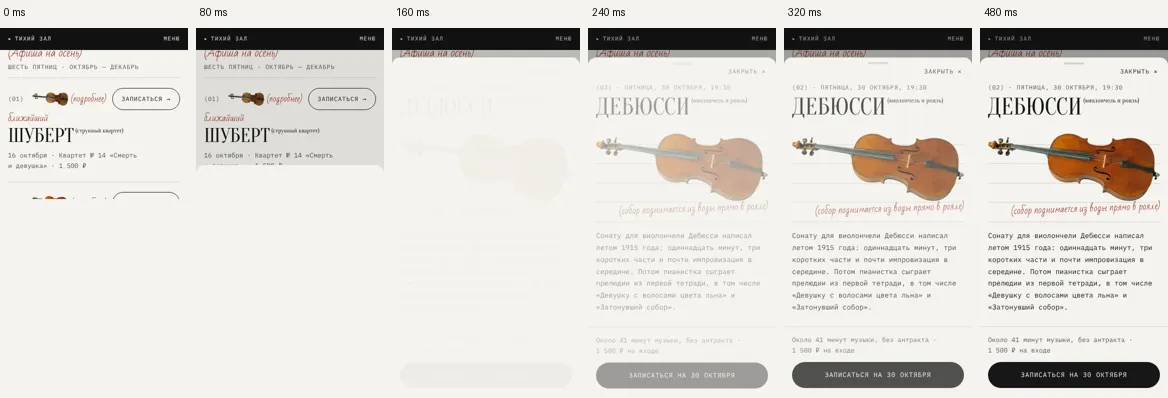
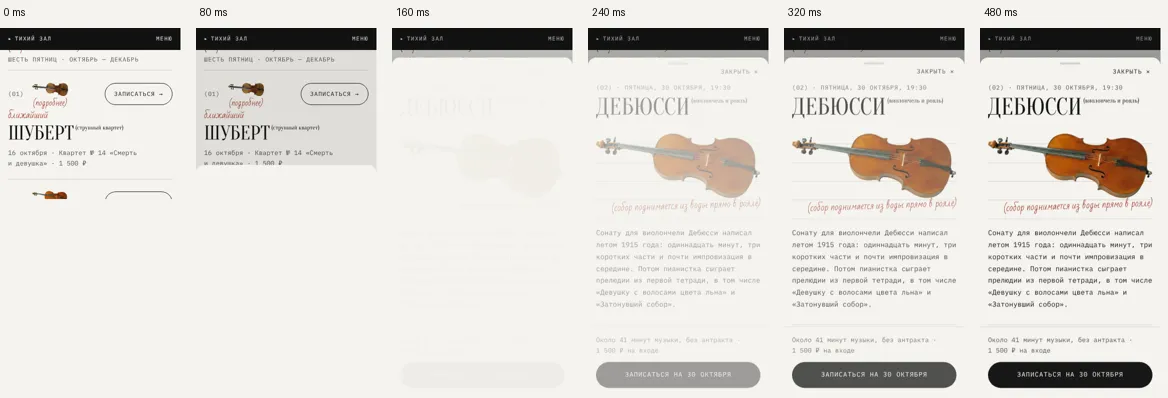
Буквы и окно двигаются без потери кадров, полоса «вечера» симметрична
- Разъезд букв: каждая буква сдвигается своим transform (видеокарта, частота
  экрана) вместо letter-spacing, который пересчитывал строку на каждом кадре.
- Окно с программкой: картинки раскодируются заранее, выезд и затемнение
  начинаются после тяжёлого кадра открытия, лист на своём слое; полоса
  прокрутки больше не пропадает при открытии (scrollbar-gutter), поэтому
  страница не пересчитывается и не дёргается.
- Если в системе выключены эффекты анимации, лист не выезжает, а мягко
  проявляется; мелкие эффекты наведения остаются.
- Серый слой в «Как проходит вечер» и пункты меню двигаются transform.
- Нижний конец указателя выходит за самое низкое фото на столько же,
  на сколько верхний за самое высокое.

Claude-Session: https://claude.ai/code/session_016hcU1gmMYWkRjzHDfmy5by

diff --git a/assets/css/style.css b/assets/css/style.css
@@ -49,6 +49,9 @@
 }
 
 /* Токены: бумага, тушь и красный карандаш для пометок */
+/* Сдвиг букв считается в пикселях от размера названия и в таком виде достаётся и подписи в скобках */
+@property --spread { syntax: "<length>"; inherits: true; initial-value: 0px; }
+
 :root {
   --paper: #f4f3ee;
   --ink: #121212;
@@ -85,7 +88,8 @@
 /* Сброс */
 *, *::before, *::after { box-sizing: border-box; }
 * { margin: 0; }
-html { -webkit-text-size-adjust: 100%; scroll-behavior: smooth; scroll-padding-top: calc(var(--bar) + 1rem); }
+html { -webkit-text-size-adjust: 100%; scroll-behavior: smooth; scroll-padding-top: calc(var(--bar) + 1rem); scrollbar-gutter: stable; }
+/* Место под полосу прокрутки держится всегда: когда окно запирает прокрутку, страница не пересчитывается и не дёргается вбок */
 @media (prefers-reduced-motion: reduce) { html { scroll-behavior: auto; } }
 /* Большие мониторы: вся раскладка плавно крупнеет, а не растягивается пустотой (16 px на 1440, 20 px к 2560) */
 @media (min-width: 90rem) { html { font-size: clamp(100%, 0.4vw + 0.64rem, 125%); } }
@@ -216,17 +220,18 @@ ul, ol { list-style: none; padding: 0; }
   display: flex; align-items: baseline; gap: 0.75rem; min-height: var(--tap); padding-block: 0.35rem;
   font-family: var(--serif); font-size: clamp(2rem, 1.6rem + 1.5vw, 2.75rem); line-height: 1; text-transform: uppercase;
   text-decoration: none; border-bottom: 1px solid rgba(244, 243, 238, 0.18);
-  transition: color 160ms ease, padding-left 240ms var(--ease-out);
+  transition: color 160ms ease;
 }
+.menu__list a > * { transition: transform 240ms var(--ease-soft); }
 .menu__num { font-family: var(--mono); font-size: var(--text-s); letter-spacing: 0.1em; opacity: 0.6; }
-@media (hover: hover) { .menu__list a:hover { padding-left: 0.5rem; color: #e9b7ae; } }
+@media (hover: hover) { .menu__list a:hover { color: #e9b7ae; } .menu__list a:hover > * { transform: translateX(0.5rem); } }
 .menu__list a:active { color: #e9b7ae; }
 .notes-toggle--menu { margin-top: 1.25rem; font-size: 0.6875rem; text-transform: uppercase; letter-spacing: 0.14em; }
 @media (min-width: 64rem) {
   .menu { top: var(--rail-inset); bottom: var(--rail-inset); max-height: none; right: calc(var(--rail-inset) + var(--rail-w)); padding: 3rem 2.5rem; box-shadow: none; }
   .notes-toggle--menu { display: none; }
 }
-@media (prefers-reduced-motion: reduce) { .menu { transition: none; } }
+@media (prefers-reduced-motion: reduce) { .menu { transform: none; opacity: 0; transition: opacity 300ms ease; } .menu.is-open { opacity: 1; } }
 
 /* ---------- Раскладка ---------- */
 
@@ -375,7 +380,8 @@ ul, ol { list-style: none; padding: 0; }
   display: inline-block;
   font-family: var(--serif); text-transform: uppercase;
   font-size: clamp(2.5rem, 1.5rem + 3.6vw, 5.75rem); line-height: 0.9; letter-spacing: -0.005em;
-  transition: letter-spacing 700ms var(--ease-soft), color 200ms ease;
+  --spread: 0.045em; /* на сколько отъезжает каждая следующая буква */
+  transition: color 200ms ease;
 }
 /* Название — кнопка программки; её невидимая подложка накрывает всю строку, кроме «Записаться» */
 .gig__open {
@@ -387,9 +393,16 @@ ul, ol { list-style: none; padding: 0; }
 .gig__open:focus-visible { outline: none; }
 .gig__open:focus-visible::after { outline: 2px solid var(--pencil); outline-offset: -2px; }
 .gig__open:active { color: var(--pencil); }
-/* Буквы фамилии разъезжаются при наведении: строка как будто делает вдох перед программкой */
+/* Буквы фамилии разъезжаются при наведении: строка как будто делает вдох перед программкой.
+   Каждая буква сдвигается своим transform, а не через letter-spacing: страница не пересчитывается,
+   браузер двигает буквы на видеокарте с частотой экрана (60, 120, 144 кадров в секунду) */
+.gig__name { white-space: nowrap; }
+.gig__ch, .gig__title sup { transition: transform 700ms var(--ease-soft); }
+.gig__ch { display: inline-block; }
+.gig__ch { transform: translateX(calc(var(--on, 0) * var(--i) * var(--spread))); }
+.gig__title sup { transform: translateX(calc(var(--on, 0) * var(--n, 0) * var(--spread))); }
 @media (hover: hover) {
-  .gig__open:hover, .gig:hover .gig__title { letter-spacing: 0.04em; }
+  .gig__open:hover, .gig:hover .gig__open { --on: 1; }
 }
 .gig__title sup {
   display: inline-block; /* на узком экране подпись переносится под фамилию, а не вылезает */
@@ -407,7 +420,7 @@ ul, ol { list-style: none; padding: 0; }
 .gig__hint::after { content: ")"; }
 html:not(.js) .gig__hint { display: none; }
 /* На самых узких телефонах пометка встаёт под инструмент, чтобы не залезать на «Записаться» */
-@media (max-width: 23.4rem) {
+@media (max-width: 24rem) {
   .gig__visual { flex-direction: column; align-items: center; gap: 0; }
   .gig__hint { font-size: 1rem; line-height: 1.1; }
 }
@@ -457,18 +470,13 @@ html:not(.js) .gig__hint { display: none; }
   .gig:hover .gig__hint, .gig:focus-within .gig__hint { opacity: 1; transform: none; }
 }
 /* Лесенка названий на широком экране доходит почти до середины строки, как ноты по стану */
-/* Подпись в скобках не должна прыгать, когда буквы разъезжаются: пока строка узкая, она всегда под фамилией, на широком экране всегда рядом */
-@media (min-width: 48rem) and (max-width: 79.99rem) { .gig__title sup { display: block; margin-left: 0; top: 0; margin-top: 0.35rem; } }
-@media (min-width: 80rem) { .gig { --step: 5%; } .gig__title { white-space: nowrap; } }
+@media (min-width: 80rem) { .gig { --step: 5%; } }
 @media (min-width: 100rem) { .gig { --step: 7%; } }
 /* Инструмент только чуть подаётся навстречу названию: главное движение теперь у букв */
 @media (hover: hover) {
   .gig:hover .gig__img, .gig:focus-within .gig__img { transform: translateX(-0.5rem); }
 }
-@media (prefers-reduced-motion: reduce) {
-  .gig__img, .gig__title, .gig__hint { transition: none; }
-  .gig:hover .gig__img { transform: none; }
-}
+
 
 /* ---------- Программка концерта ---------- */
 
@@ -477,9 +485,9 @@ html:not(.js) .gig__hint { display: none; }
   position: fixed; inset: 0; width: 100%; height: 100%; max-width: none; max-height: none;
   margin: 0; padding: 0; border: 0; background: transparent; color: var(--ink); overflow: hidden;
 }
-.programme::backdrop { background: rgba(18, 18, 18, 0.4); }
-.programme[open]::backdrop { animation: fade 450ms ease both; }
-.programme.is-closing::backdrop { opacity: 0; transition: opacity 320ms ease; }
+/* Затемнение проявляется вместе с выездом листа, а не в тяжёлый кадр открытия */
+.programme::backdrop { background: rgba(18, 18, 18, 0.4); opacity: 0; transition: opacity 320ms ease; }
+.programme.is-open::backdrop { opacity: 1; transition-duration: 450ms; }
 html.has-dialog { overflow: hidden; }
 .programme__sheet {
   position: absolute; left: 0; right: 0; bottom: 0; max-height: 92svh;
@@ -487,11 +495,12 @@ html.has-dialog { overflow: hidden; }
   background: var(--paper); border-radius: 1rem 1rem 0 0;
   padding-bottom: env(safe-area-inset-bottom);
   transform: translateY(100%); transition: transform 520ms var(--ease-sheet);
+  will-change: transform; contain: layout paint; /* лист живёт на своём слое: выезд не перерисовывает страницу */
 }
 .programme.is-open .programme__sheet { transform: none; }
 .programme.is-closing .programme__sheet { transform: translateY(100%); transition-duration: 320ms; }
 /* Лист не приезжает пустым: текст проявляется вслед за ним, а при закрытии гаснет первым */
-.programme__body, .programme__bar { opacity: 0; transition: opacity 260ms ease; }
+.programme__body, .programme__bar { opacity: 0; transition: opacity 260ms ease; will-change: opacity; }
 .programme.is-open .programme__body, .programme.is-open .programme__bar { opacity: 1; transition: opacity 420ms ease 140ms; }
 .programme__bar {
   position: relative; display: flex; justify-content: flex-end; align-items: center;
@@ -554,8 +563,10 @@ html.has-dialog { overflow: hidden; }
   .programme__img { max-height: 14rem; }
 }
 @media (prefers-reduced-motion: reduce) {
-  .programme__sheet, .programme.is-closing .programme__sheet { transition: none; }
-  .programme__body, .programme__bar { opacity: 1; transition: none; }
+  /* Если в системе просят меньше движения, лист не выезжает, а мягко проявляется на месте */
+  .programme__sheet, .programme.is-closing .programme__sheet { transform: none; opacity: 0; transition: opacity 360ms ease; }
+  .programme.is-open .programme__sheet { opacity: 1; }
+  .programme.is-closing .programme__sheet { opacity: 0; transition-duration: 220ms; }
 }
 
 /* ---------- Подробности ---------- */
@@ -596,19 +607,20 @@ html.has-dialog { overflow: hidden; }
 .moment img { width: 100%; aspect-ratio: 4 / 5; object-fit: cover; }
 .moment p { transition: color 600ms var(--ease-out); }
 /* Серый слой лежит справа от границы --reveal: слева фото уже цветное, справа ещё нет */
-.moment__photo { position: relative; }
+.moment__photo { position: relative; overflow: hidden; }
+/* Слой сдвигается transform, а не left: граница цвета едет плавно и не заставляет пересчитывать страницу */
 .moment__shade {
-  position: absolute; top: 0; bottom: 0; right: 0; left: var(--reveal, 0px);
+  position: absolute; inset: 0; transform: translateX(var(--reveal, 0px)); will-change: transform;
   -webkit-backdrop-filter: grayscale(1) contrast(0.9); backdrop-filter: grayscale(1) contrast(0.9);
   pointer-events: none;
 }
 html:not(.js) .moment__shade { display: none; }
 /* На телефоне указателя нет: фото окрашивается слева направо, когда появляется на экране */
 @media (max-width: 56.24rem) {
-  .moment__shade { transition: left 1400ms var(--ease-in-out); }
-  .moment.is-lit .moment__shade { left: 100%; }
+  .moment__shade { transition: transform 1400ms var(--ease-in-out); }
+  .moment.is-lit .moment__shade { transform: translateX(100%); }
 }
-@media (prefers-reduced-motion: reduce) { .moment__shade { transition: none; } }
+@media (prefers-reduced-motion: reduce) { .moment__shade { transition-duration: 600ms; transition-timing-function: ease; } }
 .moment b { display: block; font-family: var(--serif); font-weight: 400; font-size: 1.75rem; line-height: 1; margin-bottom: 0.35rem; }
 .js .moment:not(.is-lit) p { color: var(--muted); } /* не прозрачность: фон подписи должен закрывать указатель */
 .staff--evening, .evening__head { display: none; }

diff --git a/assets/js/main.js b/assets/js/main.js
@@ -69,6 +69,29 @@ if (next) {
   playheadLabel.textContent = "Осенний сезон закончился";
 }
 
+// Фамилия в афише раскладывается на буквы, чтобы при наведении каждая отъезжала своим transform.
+// Экранный диктор читает фамилию целиком из скрытой копии, а буквы от него спрятаны
+document.querySelectorAll(".gig__open").forEach((button) => {
+  const text = button.firstChild;
+  if (!text || text.nodeType !== Node.TEXT_NODE) return;
+  const name = text.textContent.trim();
+  const letters = document.createElement("span");
+  letters.className = "gig__name";
+  letters.setAttribute("aria-hidden", "true");
+  [...name].forEach((ch, i) => {
+    const span = document.createElement("span");
+    span.className = "gig__ch";
+    span.style.setProperty("--i", i);
+    span.textContent = ch;
+    letters.append(span);
+  });
+  const spoken = document.createElement("span");
+  spoken.className = "visually-hidden";
+  spoken.textContent = name;
+  text.replaceWith(spoken, letters);
+  button.querySelector("sup")?.style.setProperty("--n", name.length);
+});
+
 // «Записаться» в строке афиши и в программке сразу выбирает этот концерт в форме
 const concertSelect = document.getElementById("f-concert");
 const chooseConcert = (value) => {
@@ -87,16 +110,44 @@ if (programme && typeof programme.showModal === "function") {
   const reduceMotion = matchMedia("(prefers-reduced-motion: reduce)");
   let closing = false;
 
-  const open = (id) => {
+  // Картинки программок заранее скачиваем и раскодируем, пока страница простаивает:
+  // иначе раскодирование большой картинки съедает первые кадры выезда
+  const decoded = new Map();
+  const warm = () => {
+    document.querySelectorAll("template[id^='programme-']").forEach((template) => {
+      template.content.querySelectorAll("img").forEach((img) => {
+        if (decoded.has(img.src)) return;
+        const pic = new Image();
+        pic.src = img.src;
+        decoded.set(img.src, pic.decode().catch(() => {}));
+      });
+    });
+  };
+  if ("requestIdleCallback" in window) requestIdleCallback(warm, { timeout: 3000 });
+  else setTimeout(warm, 1500);
+
+  const nextFrame = () => new Promise((resolve) => requestAnimationFrame(resolve));
+  let opening = 0;
+
+  const open = async (id) => {
     const template = document.getElementById(`programme-${id}`);
-    if (!template) return;
+    if (!template || programme.open) return;
+    const ticket = ++opening;
+    warm();
     body.replaceChildren(template.content.cloneNode(true));
     body.scrollTop = 0;
     programme.classList.remove("is-closing");
+    // Ждём картинку, но не дольше 120 мс: окно должно откликнуться сразу
+    const pictures = [...body.querySelectorAll("img")].map((img) => decoded.get(img.src) || img.decode().catch(() => {}));
+    await Promise.race([Promise.all(pictures), new Promise((resolve) => setTimeout(resolve, 120))]);
+    if (ticket !== opening) return;
     programme.showModal();
     document.documentElement.classList.add("has-dialog");
-    // Лист выезжает со следующего кадра, чтобы сработал переход
-    requestAnimationFrame(() => requestAnimationFrame(() => programme.classList.add("is-open")));
+    // Самый тяжёлый кадр (окно встаёт поверх страницы) проходит без движения.
+    // Выезд начинается через два кадра, когда браузер уже свободен, поэтому ни один кадр анимации не теряется
+    await nextFrame();
+    await nextFrame();
+    if (ticket === opening && programme.open) programme.classList.add("is-open");
   };
 
   // Закрытие тоже анимированное, но короче открытия; потом окно действительно закрывается
@@ -112,8 +163,7 @@ if (programme && typeof programme.showModal === "function") {
       document.documentElement.classList.remove("has-dialog");
       if (after) after();
     };
-    if (reduceMotion.matches) finish();
-    else setTimeout(finish, 320);
+    setTimeout(finish, reduceMotion.matches ? 220 : 320);
   };
 
   document.querySelectorAll(".gig__open").forEach((button) => {
@@ -168,24 +218,43 @@ if (evening) {
   };
   const onScroll = () => { if (!frame) frame = requestAnimationFrame(update); };
 
+  // Нижний конец указателя выходит за самое низкое фото на столько же, на сколько верхний —
+  // за самое высокое: полоса выглядит симметричной на любом экране
+  const placeHead = () => {
+    head.style.removeProperty("bottom");
+    if (!wide.matches) return;
+    const box = stage.getBoundingClientRect();
+    const line = head.getBoundingClientRect();
+    const photos = moments.map((m) => m.querySelector("img").getBoundingClientRect());
+    const highest = Math.min(...photos.map((r) => r.top));
+    const lowest = Math.max(...photos.map((r) => r.bottom));
+    const overhang = highest - line.top;
+    head.style.bottom = `${Math.max(0, box.bottom - (lowest + overhang))}px`;
+  };
+  const onResize = () => { placeHead(); onScroll(); };
+
   const observer = new IntersectionObserver((entries) => {
     entries.forEach((entry) => { if (entry.isIntersecting) entry.target.classList.add("is-lit"); });
   }, { threshold: 0.6 });
 
   const setup = () => {
     window.removeEventListener("scroll", onScroll);
-    window.removeEventListener("resize", onScroll);
+    window.removeEventListener("resize", onResize);
     observer.disconnect();
     if (wide.matches) {
       window.addEventListener("scroll", onScroll, { passive: true });
-      window.addEventListener("resize", onScroll, { passive: true });
+      window.addEventListener("resize", onResize, { passive: true });
+      placeHead();
       update();
     } else {
+      head.style.removeProperty("bottom");
       moments.forEach((m) => { m.style.removeProperty("--reveal"); m.classList.remove("is-crossing"); observer.observe(m); });
     }
   };
   wide.addEventListener("change", setup);
   setup();
+  // Подписи под фото сдвигают снимки, пока грузятся шрифты: пересчитываем, когда шрифты готовы
+  document.fonts?.ready.then(placeHead);
 }
 
 // Текущий год в подвале (в HTML тоже вписан год на случай, если скрипт не загрузится)

diff --git a/index.html b/index.html
@@ -47,10 +47,10 @@
 
   <nav class="menu" id="menu" aria-label="Разделы сайта" hidden>
     <ul class="menu__list">
-      <li><a href="#afisha"><span class="menu__num">01</span> Афиша</a></li>
-      <li><a href="#podrobnosti"><span class="menu__num">02</span> Подробности</a></li>
-      <li><a href="#vecher"><span class="menu__num">03</span> Как проходит вечер</a></li>
-      <li><a href="#zapis"><span class="menu__num">04</span> Записаться</a></li>
+      <li><a href="#afisha"><span class="menu__num">01</span> <span>Афиша</span></a></li>
+      <li><a href="#podrobnosti"><span class="menu__num">02</span> <span>Подробности</span></a></li>
+      <li><a href="#vecher"><span class="menu__num">03</span> <span>Как проходит вечер</span></a></li>
+      <li><a href="#zapis"><span class="menu__num">04</span> <span>Записаться</span></a></li>
     </ul>
     <div class="notes-toggle notes-toggle--menu" role="group" aria-label="Пометки от руки">
       <span class="notes-toggle__label" aria-hidden="true">Пометки:</span>
